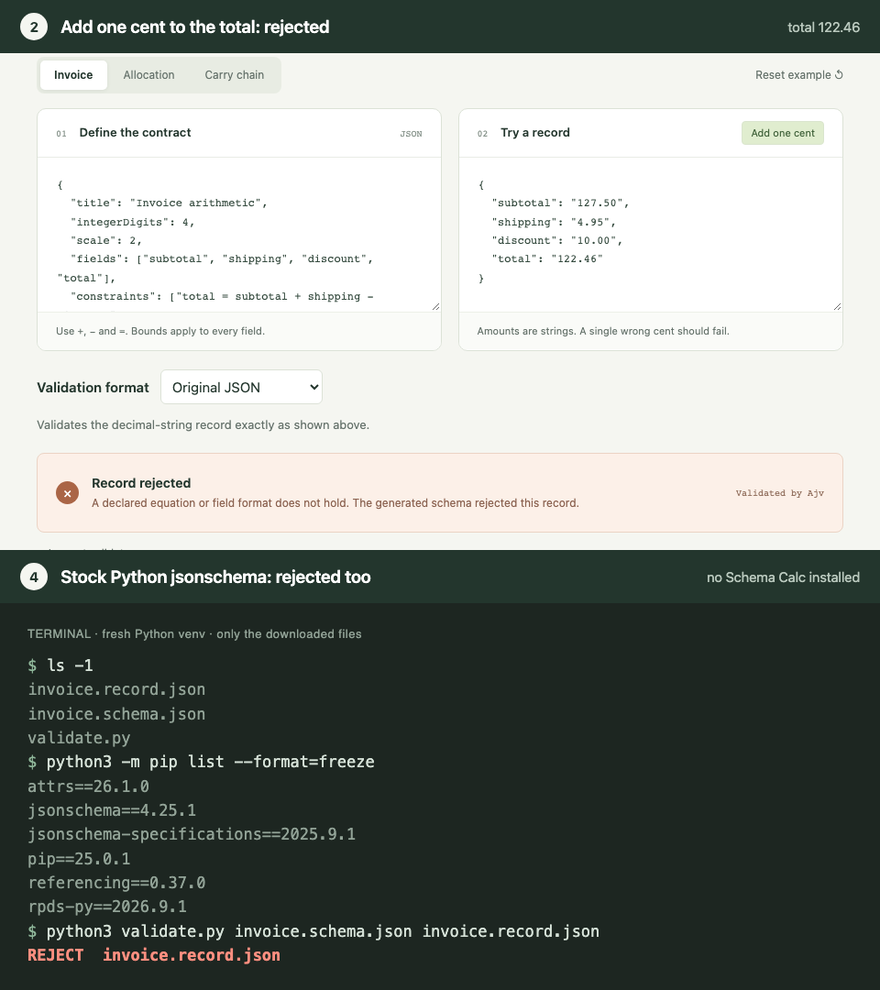
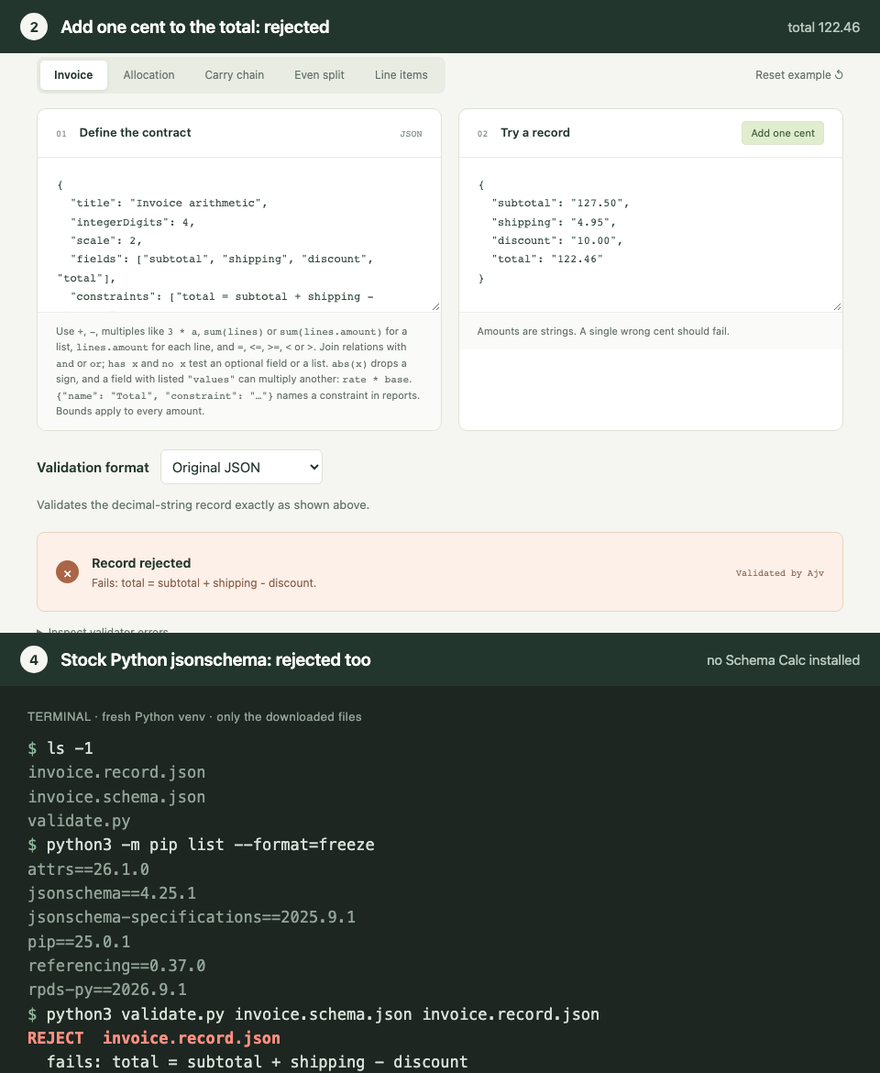
Demo: rerecord with the failing constraint shown
The playground now says which constraint fails and validate.py prints it
under REJECT, so the demonstration shows both. The recording is 90 px
taller, since the playground's longer hint pushed the verdict out of
frame, and it asserts the verdict is in view. The recorder also stops
its server when an assertion fails, instead of hanging.

diff --git a/scripts/demo/stage.html b/scripts/demo/stage.html
@@ -43,14 +43,15 @@
     hideCursor() { document.getElementById('cursor').style.opacity = 0; },
     file(name) { const t = document.getElementById('tray'); t.style.display = 'block'; document.getElementById('files').insertAdjacentHTML('beforeend', `<div>${name}</div>`); },
     showTerminal() { document.getElementById('terminal').classList.add('on'); document.getElementById('tray').style.display = 'none'; this.hideCursor(); },
-    // Types each command, then prints its captured output verbatim.
-    async run(command, output, cls = 'dim') {
+    // Types each command, then prints its captured output verbatim; rest follows in plain text.
+    async run(command, output, cls = 'dim', rest = '') {
       const lines = document.getElementById('lines');
       const row = document.createElement('div'); row.innerHTML = '<span class="prompt">$ </span>'; lines.append(row);
       const typed = document.createElement('span'); row.append(typed);
       for (const ch of command) { typed.textContent += ch; await sleep(28); }
       await sleep(350);
       if (output) { const out = document.createElement('div'); out.className = cls; out.textContent = output; lines.append(out); }
+      if (rest) { const more = document.createElement('div'); more.textContent = rest; lines.append(more); }
       await sleep(500);
     }
   };

diff --git a/README.md b/README.md
@@ -35,7 +35,7 @@ The example schema is **41,391 bytes**, down from **284,300 bytes** for the firs
 
 <picture>
   <source media="(prefers-reduced-motion: reduce)" srcset="docs/demo.png">
-  <img src="docs/demo.gif" width="880" alt="The playground accepts an invoice totalling 122.45, then rejects it after Add one cent changes the total to 122.46. The schema, the record and validate.py are downloaded, and stock Python jsonschema, in an environment without Schema Calc, prints REJECT for the same record.">
+  <img src="docs/demo.gif" width="880" alt="The playground accepts an invoice totalling 122.45, then rejects it after Add one cent changes the total to 122.46, naming the failing constraint: total = subtotal + shipping - discount. The schema, the record and validate.py are downloaded, and stock Python jsonschema, in an environment without Schema Calc, prints REJECT for the same record with the same failing constraint.">
 </picture>
 
 1. The [playground](https://fmindstormer.github.io/schema-calc/) accepts the correct invoice.
